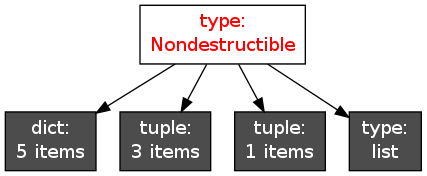
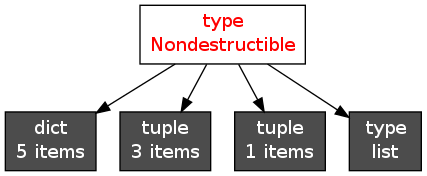
Drop the colons after type names.

diff --git a/objgraph.py b/objgraph.py
@@ -547,7 +547,7 @@ def obj_label(obj, extra_info=(lambda _: ''), refcounts=False):
         #   sys.getrefcount()'s argument
         #   something else that doesn't show up in gc.get_referrers()
     else:
-        s = ':\n'
+        s = '\n'
     return quote(type(obj).__name__ + s +
                  safe_repr(obj) + '\n' +
                  extra_info(obj)).rstrip()
